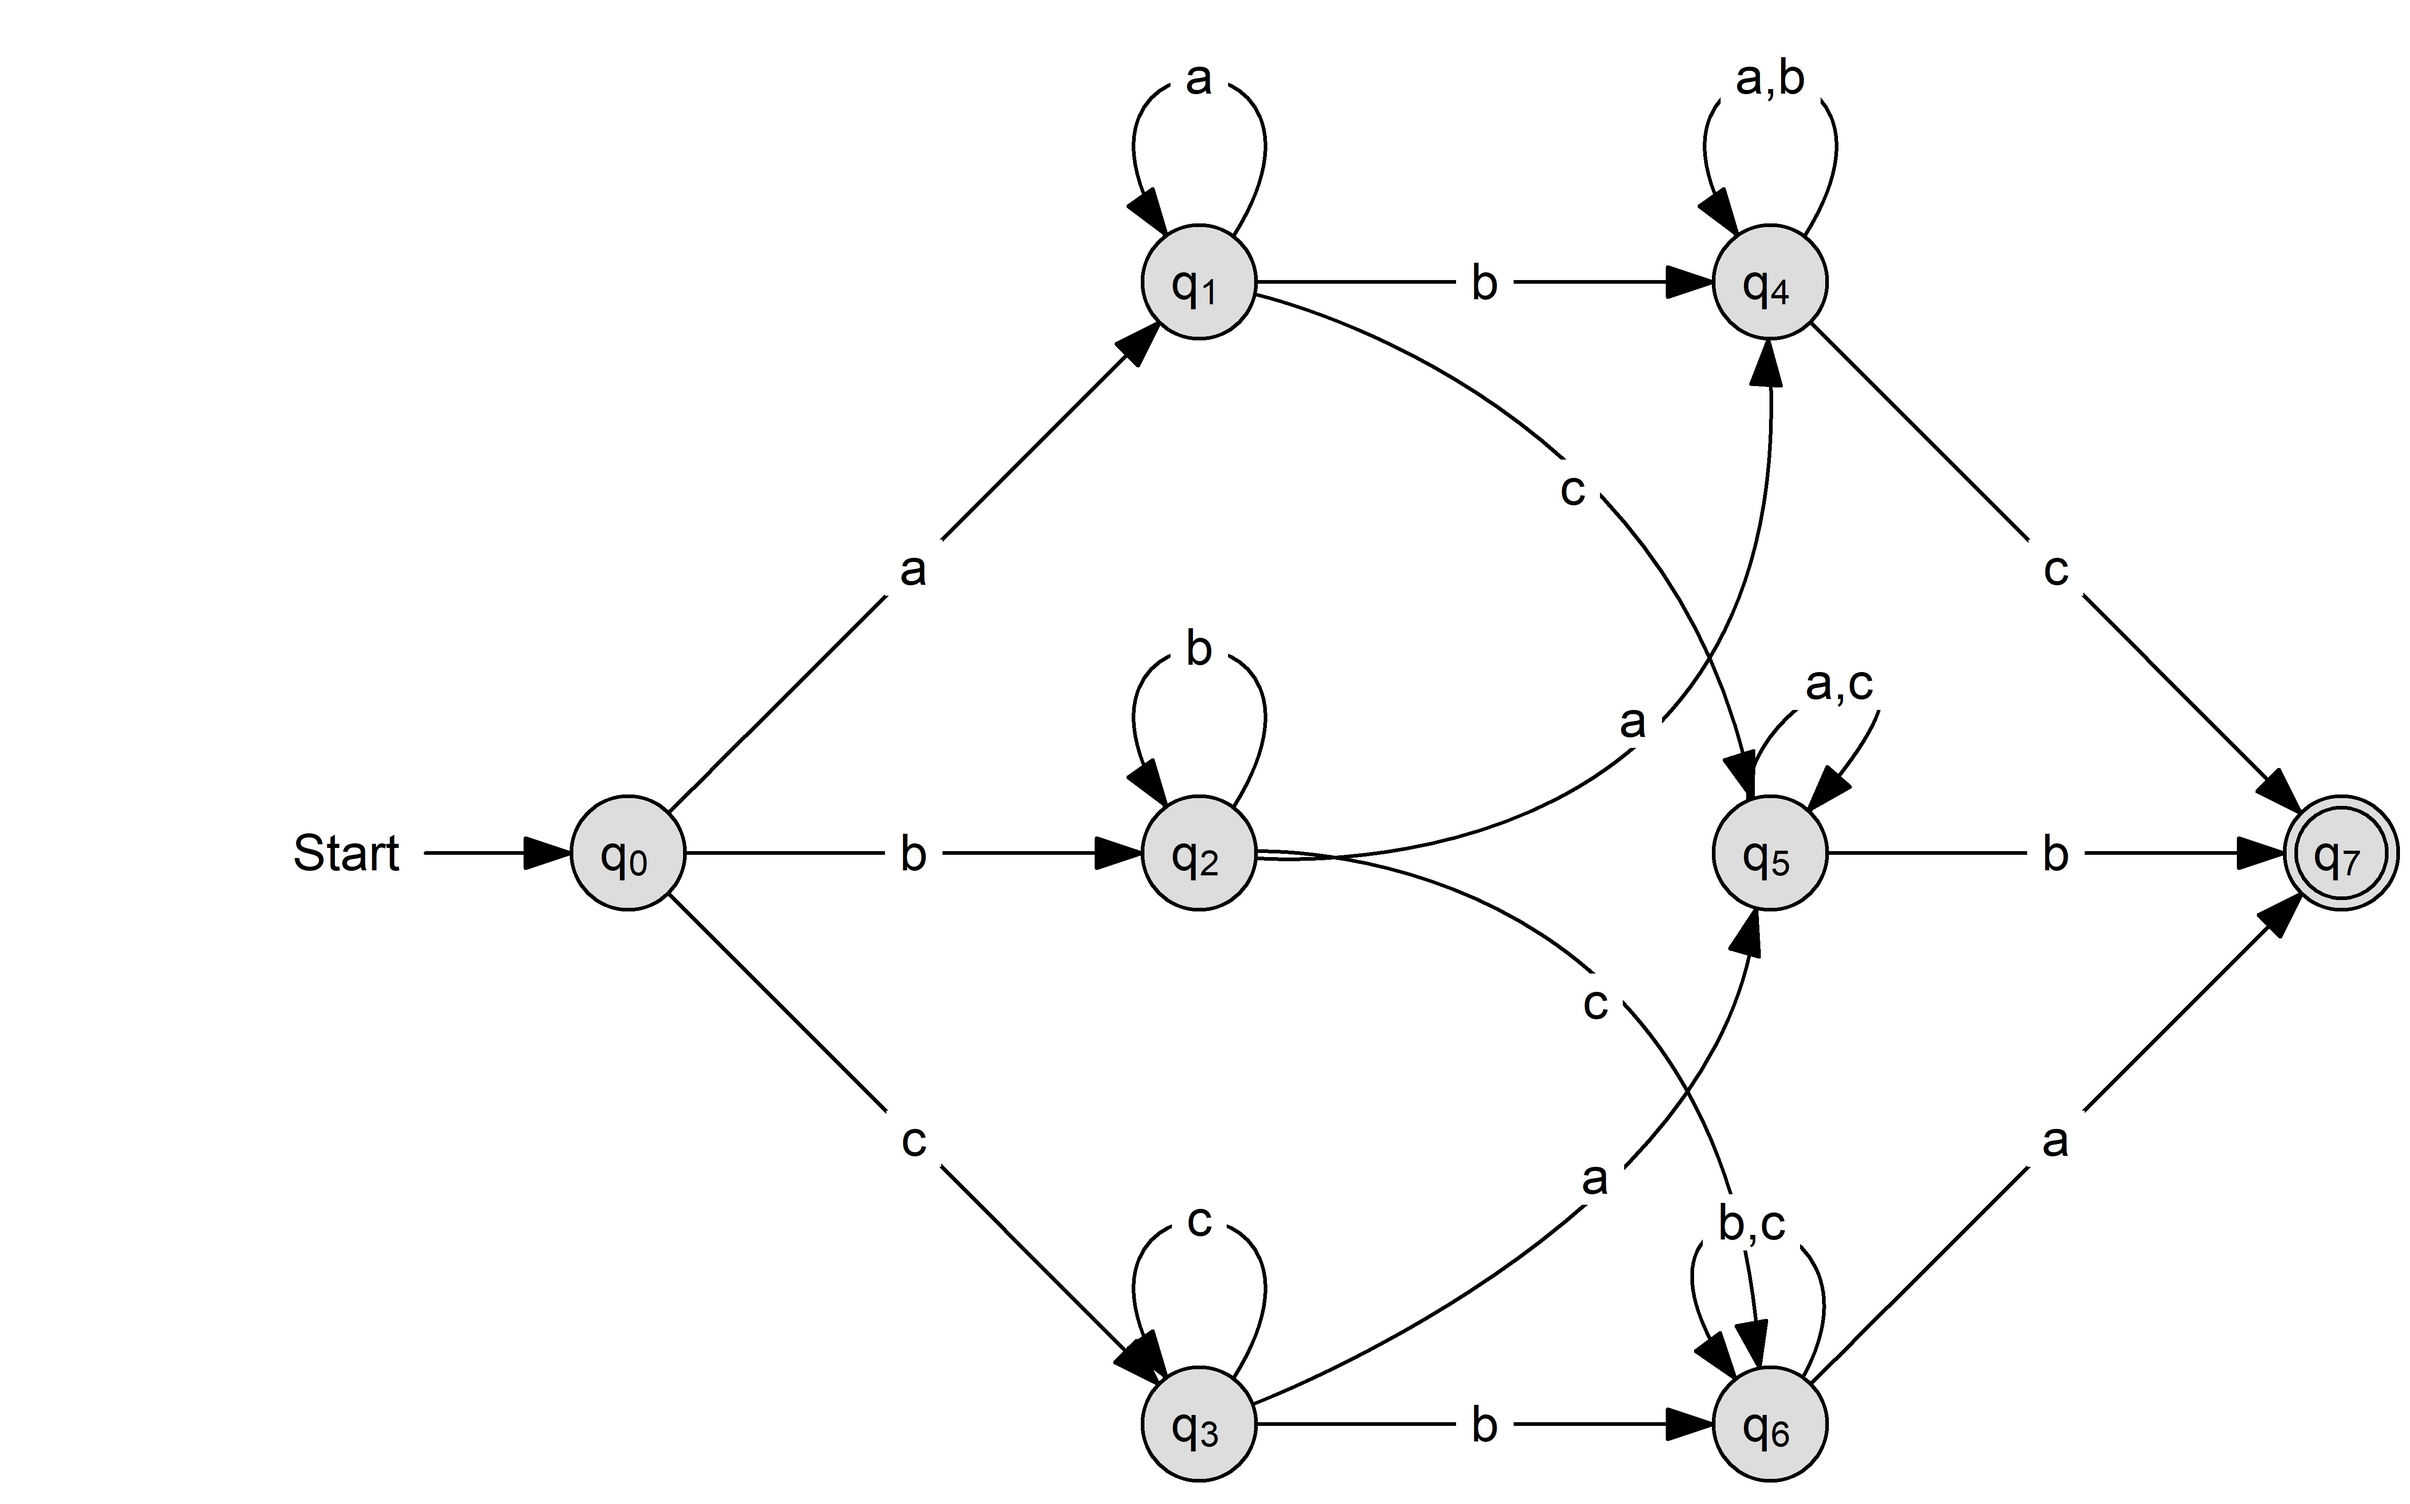
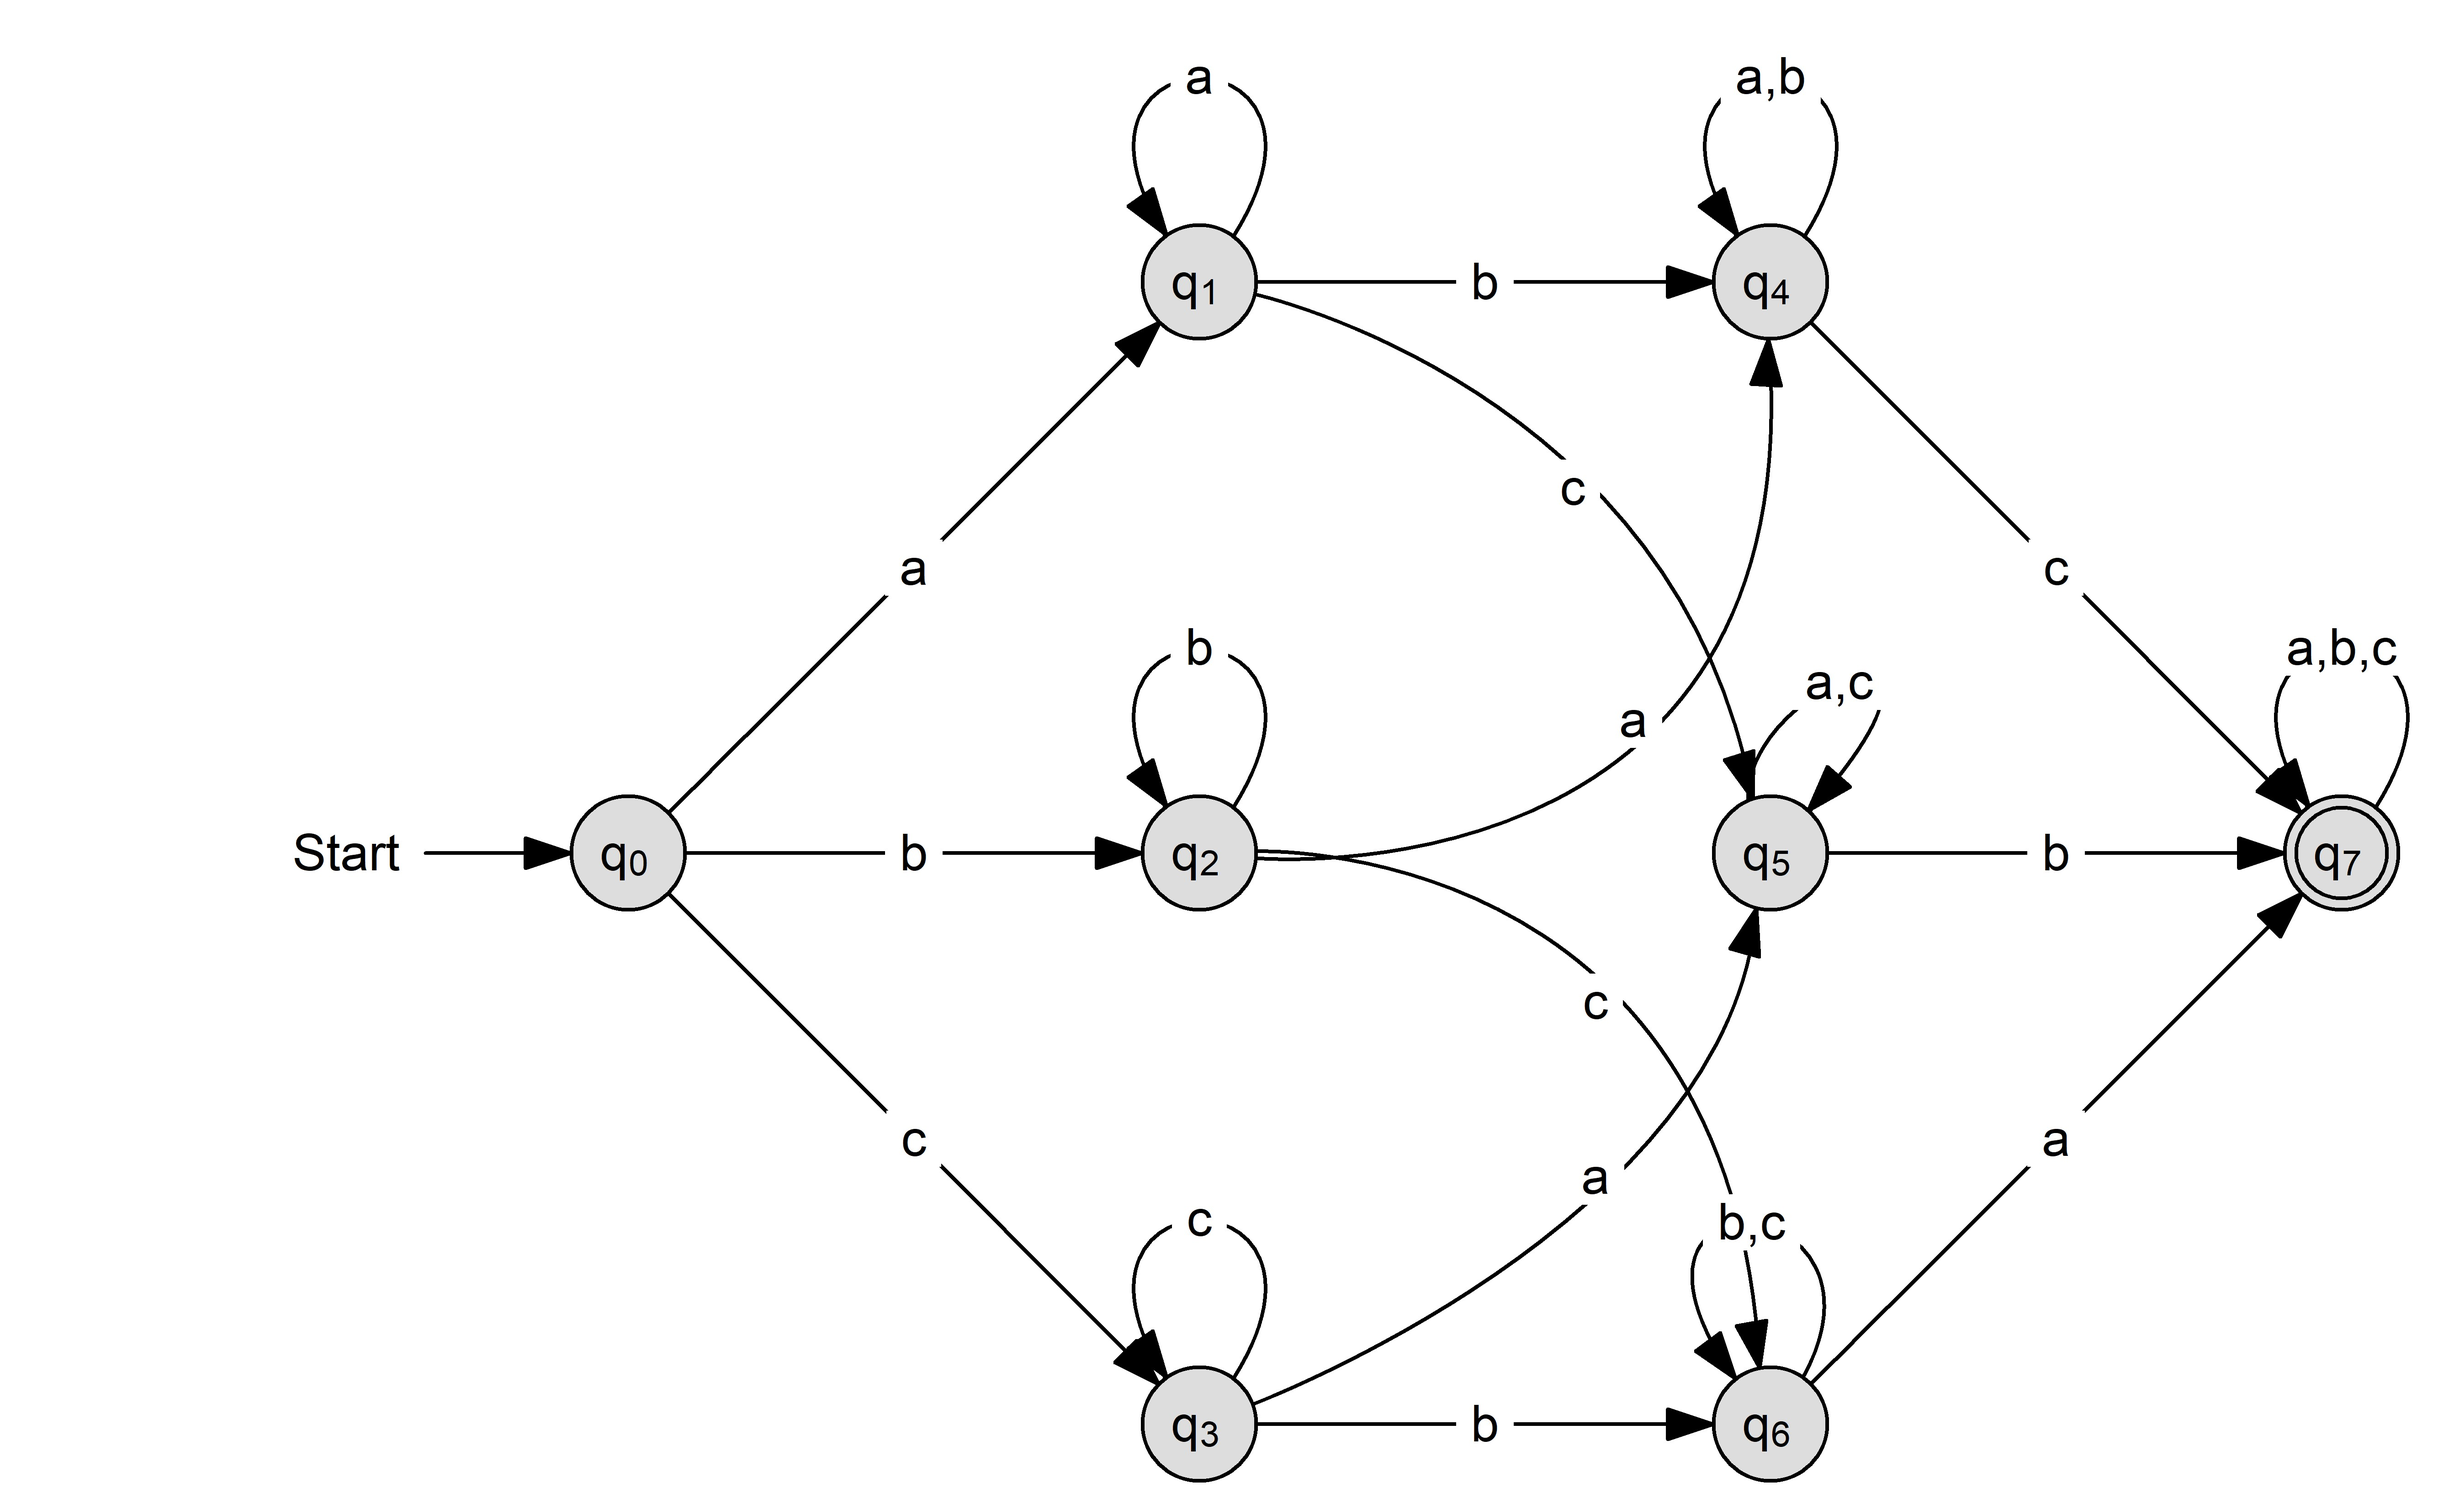
aaa

diff --git a/Q2/05 Automaten/Aufgaben zu DEA und regulären Ausdrücken/html/Aufgabe 2.html b/Q2/05 Automaten/Aufgaben zu DEA und regulären Ausdrücken/html/Aufgabe 2.html
@@ -33,10 +33,10 @@
      <td style="padding:5"><img src="Aufgabe 2.html3.gif"></td>
     </tr>
     <tr>
-     <td class="TableLine">Grammar:</td><td class="TableLine2">G = (N,T,P,s)<br><br>G = ({q<sub>0</sub>,q<sub>1</sub>,q<sub>2</sub>,q<sub>3</sub>,q<sub>4</sub>,q<sub>5</sub>,q<sub>6</sub>},{<font color="#5555FF">a,b,c</font>},P,q<sub>0</sub>)<br><br>P = {<br>&nbsp;&nbsp;&nbsp;q<sub>0</sub> -> <font color="#5555FF">a</font> q<sub>1</sub> | <font color="#5555FF">b</font> q<sub>2</sub> | <font color="#5555FF">c</font> q<sub>3</sub> <br>&nbsp;&nbsp;&nbsp;q<sub>1</sub> -> <font color="#5555FF">b</font> q<sub>4</sub> | <font color="#5555FF">c</font> q<sub>5</sub> | <font color="#5555FF">a</font> q<sub>1</sub> <br>&nbsp;&nbsp;&nbsp;q<sub>2</sub> -> <font color="#5555FF">a</font> q<sub>4</sub> | <font color="#5555FF">c</font> q<sub>6</sub> | <font color="#5555FF">b</font> q<sub>2</sub> <br>&nbsp;&nbsp;&nbsp;q<sub>3</sub> -> <font color="#5555FF">b</font> q<sub>6</sub> | <font color="#5555FF">a</font> q<sub>5</sub> | <font color="#5555FF">c</font> q<sub>3</sub> <br>&nbsp;&nbsp;&nbsp;q<sub>4</sub> -> <font color="#5555FF">c</font>  | <font color="#5555FF">a</font> q<sub>4</sub> | <font color="#5555FF">b</font> q<sub>4</sub> <br>&nbsp;&nbsp;&nbsp;q<sub>5</sub> -> <font color="#5555FF">b</font>  | <font color="#5555FF">a</font> q<sub>5</sub> | <font color="#5555FF">c</font> q<sub>5</sub> <br>&nbsp;&nbsp;&nbsp;q<sub>6</sub> -> <font color="#5555FF">a</font>  | <font color="#5555FF">b</font> q<sub>6</sub> | <font color="#5555FF">c</font> q<sub>6</sub> <br>}</td>
+     <td class="TableLine">Grammar:</td><td class="TableLine2">G = (N,T,P,s)<br><br>G = ({q<sub>0</sub>,q<sub>1</sub>,q<sub>2</sub>,q<sub>3</sub>,q<sub>4</sub>,q<sub>5</sub>,q<sub>6</sub>,q<sub>7</sub>},{<font color="#5555FF">a,b,c</font>},P,q<sub>0</sub>)<br><br>P = {<br>&nbsp;&nbsp;&nbsp;q<sub>0</sub> -> <font color="#5555FF">a</font> q<sub>1</sub> | <font color="#5555FF">b</font> q<sub>2</sub> | <font color="#5555FF">c</font> q<sub>3</sub> <br>&nbsp;&nbsp;&nbsp;q<sub>1</sub> -> <font color="#5555FF">b</font> q<sub>4</sub> | <font color="#5555FF">c</font> q<sub>5</sub> | <font color="#5555FF">a</font> q<sub>1</sub> <br>&nbsp;&nbsp;&nbsp;q<sub>2</sub> -> <font color="#5555FF">a</font> q<sub>4</sub> | <font color="#5555FF">c</font> q<sub>6</sub> | <font color="#5555FF">b</font> q<sub>2</sub> <br>&nbsp;&nbsp;&nbsp;q<sub>3</sub> -> <font color="#5555FF">b</font> q<sub>6</sub> | <font color="#5555FF">a</font> q<sub>5</sub> | <font color="#5555FF">c</font> q<sub>3</sub> <br>&nbsp;&nbsp;&nbsp;q<sub>4</sub> -> <font color="#5555FF">c</font> q<sub>7</sub> | <font color="#5555FF">c</font>  | <font color="#5555FF">a</font> q<sub>4</sub> | <font color="#5555FF">b</font> q<sub>4</sub> <br>&nbsp;&nbsp;&nbsp;q<sub>5</sub> -> <font color="#5555FF">b</font> q<sub>7</sub> | <font color="#5555FF">b</font>  | <font color="#5555FF">a</font> q<sub>5</sub> | <font color="#5555FF">c</font> q<sub>5</sub> <br>&nbsp;&nbsp;&nbsp;q<sub>6</sub> -> <font color="#5555FF">a</font> q<sub>7</sub> | <font color="#5555FF">a</font>  | <font color="#5555FF">b</font> q<sub>6</sub> | <font color="#5555FF">c</font> q<sub>6</sub> <br>&nbsp;&nbsp;&nbsp;q<sub>7</sub> -> <font color="#5555FF">a</font> q<sub>7</sub> | <font color="#5555FF">a</font>  | <font color="#5555FF">b</font> q<sub>7</sub> | <font color="#5555FF">b</font>  | <font color="#5555FF">c</font> q<sub>7</sub> | <font color="#5555FF">c</font>  <br>}</td>
     </tr>
     <tr>
-     <td class="TableLine">RegExp:</td><td class="TableLine2"><font face="Symbol">&#198;</font></td>
+     <td class="TableLine">RegExp:</td><td class="TableLine2">((aa*b(a+b)*c(a+b+c)*+aa*c(a+c)*b(a+b+c)*)+bb*(a(a+b)*c(a+b+c)*+c(b+c)*a(a+b+c)*))+cc*(a(a+c)*b(a+b+c)*+b(b+c)*a(a+b+c)*)</td>
     </tr>
    </table>
   </td>

diff --git a/Q2/05 Automaten/Aufgaben zu DEA und regulären Ausdrücken/alt/Aufgabe 2.html b/Q2/05 Automaten/Aufgaben zu DEA und regulären Ausdrücken/alt/Aufgabe 2.html
@@ -1,0 +1,45 @@
+<html><body>
+<style type="text/css">
+<!--
+.HeadLine {color:#000000; Font-Family:Verdana; Font-Size:10pt;
+           background-color:#ABA9D7; vertical-align:top;}
+.TableLine {color:#000000; Font-Family:Verdana; Font-Size:10pt;
+           background-color:#ECEAE6; text-align:right; vertical-align:Top;}
+.TableLine2{color:#000000; Font-Family:Verdana; Font-Size:10pt;
+           background-color:#FFFFFF; vertical-align:Top;}
+.MainFrame {border-style:outset; border-width:1px; border-color:#DDDDDD;}
+-->
+</style>
+<table cellspacing=0 cellpadding=0 class="MainFrame">
+ <tr>
+  <td class="HeadLine" width=100%><b>&nbsp;Automaton</b></td>
+ </tr>
+ <tr>
+  <td>
+   <table cellspacing=5>
+    <tr>
+     <td class="TableLine">Type:</td><td class="TableLine2">DEA</td>
+    </tr>
+    <tr>
+     <td class="TableLine">Transition Graph:</td>
+     <td style="padding:5"><img src="Aufgabe 2.html1.gif"></td>
+    </tr>
+    <tr>
+     <td class="TableLine" style="vertical-align:middle">Definition:</td>
+     <td style="padding:5; padding-top:9;"><img src="Aufgabe 2.html2.gif"></td>
+    </tr>
+    <tr>
+     <td class="TableLine">Transition Table:</td>
+     <td style="padding:5"><img src="Aufgabe 2.html3.gif"></td>
+    </tr>
+    <tr>
+     <td class="TableLine">Grammar:</td><td class="TableLine2">G = (N,T,P,s)<br><br>G = ({q<sub>0</sub>,q<sub>1</sub>,q<sub>2</sub>,q<sub>3</sub>,q<sub>4</sub>,q<sub>5</sub>,q<sub>6</sub>},{<font color="#5555FF">a,b,c</font>},P,q<sub>0</sub>)<br><br>P = {<br>&nbsp;&nbsp;&nbsp;q<sub>0</sub> -> <font color="#5555FF">a</font> q<sub>1</sub> | <font color="#5555FF">b</font> q<sub>2</sub> | <font color="#5555FF">c</font> q<sub>3</sub> <br>&nbsp;&nbsp;&nbsp;q<sub>1</sub> -> <font color="#5555FF">b</font> q<sub>4</sub> | <font color="#5555FF">c</font> q<sub>5</sub> | <font color="#5555FF">a</font> q<sub>1</sub> <br>&nbsp;&nbsp;&nbsp;q<sub>2</sub> -> <font color="#5555FF">a</font> q<sub>4</sub> | <font color="#5555FF">c</font> q<sub>6</sub> | <font color="#5555FF">b</font> q<sub>2</sub> <br>&nbsp;&nbsp;&nbsp;q<sub>3</sub> -> <font color="#5555FF">b</font> q<sub>6</sub> | <font color="#5555FF">a</font> q<sub>5</sub> | <font color="#5555FF">c</font> q<sub>3</sub> <br>&nbsp;&nbsp;&nbsp;q<sub>4</sub> -> <font color="#5555FF">c</font>  | <font color="#5555FF">a</font> q<sub>4</sub> | <font color="#5555FF">b</font> q<sub>4</sub> <br>&nbsp;&nbsp;&nbsp;q<sub>5</sub> -> <font color="#5555FF">b</font>  | <font color="#5555FF">a</font> q<sub>5</sub> | <font color="#5555FF">c</font> q<sub>5</sub> <br>&nbsp;&nbsp;&nbsp;q<sub>6</sub> -> <font color="#5555FF">a</font>  | <font color="#5555FF">b</font> q<sub>6</sub> | <font color="#5555FF">c</font> q<sub>6</sub> <br>}</td>
+    </tr>
+    <tr>
+     <td class="TableLine">RegExp:</td><td class="TableLine2"><font face="Symbol">&#198;</font></td>
+    </tr>
+   </table>
+  </td>
+ </tr>
+</table>
+</body></html>
